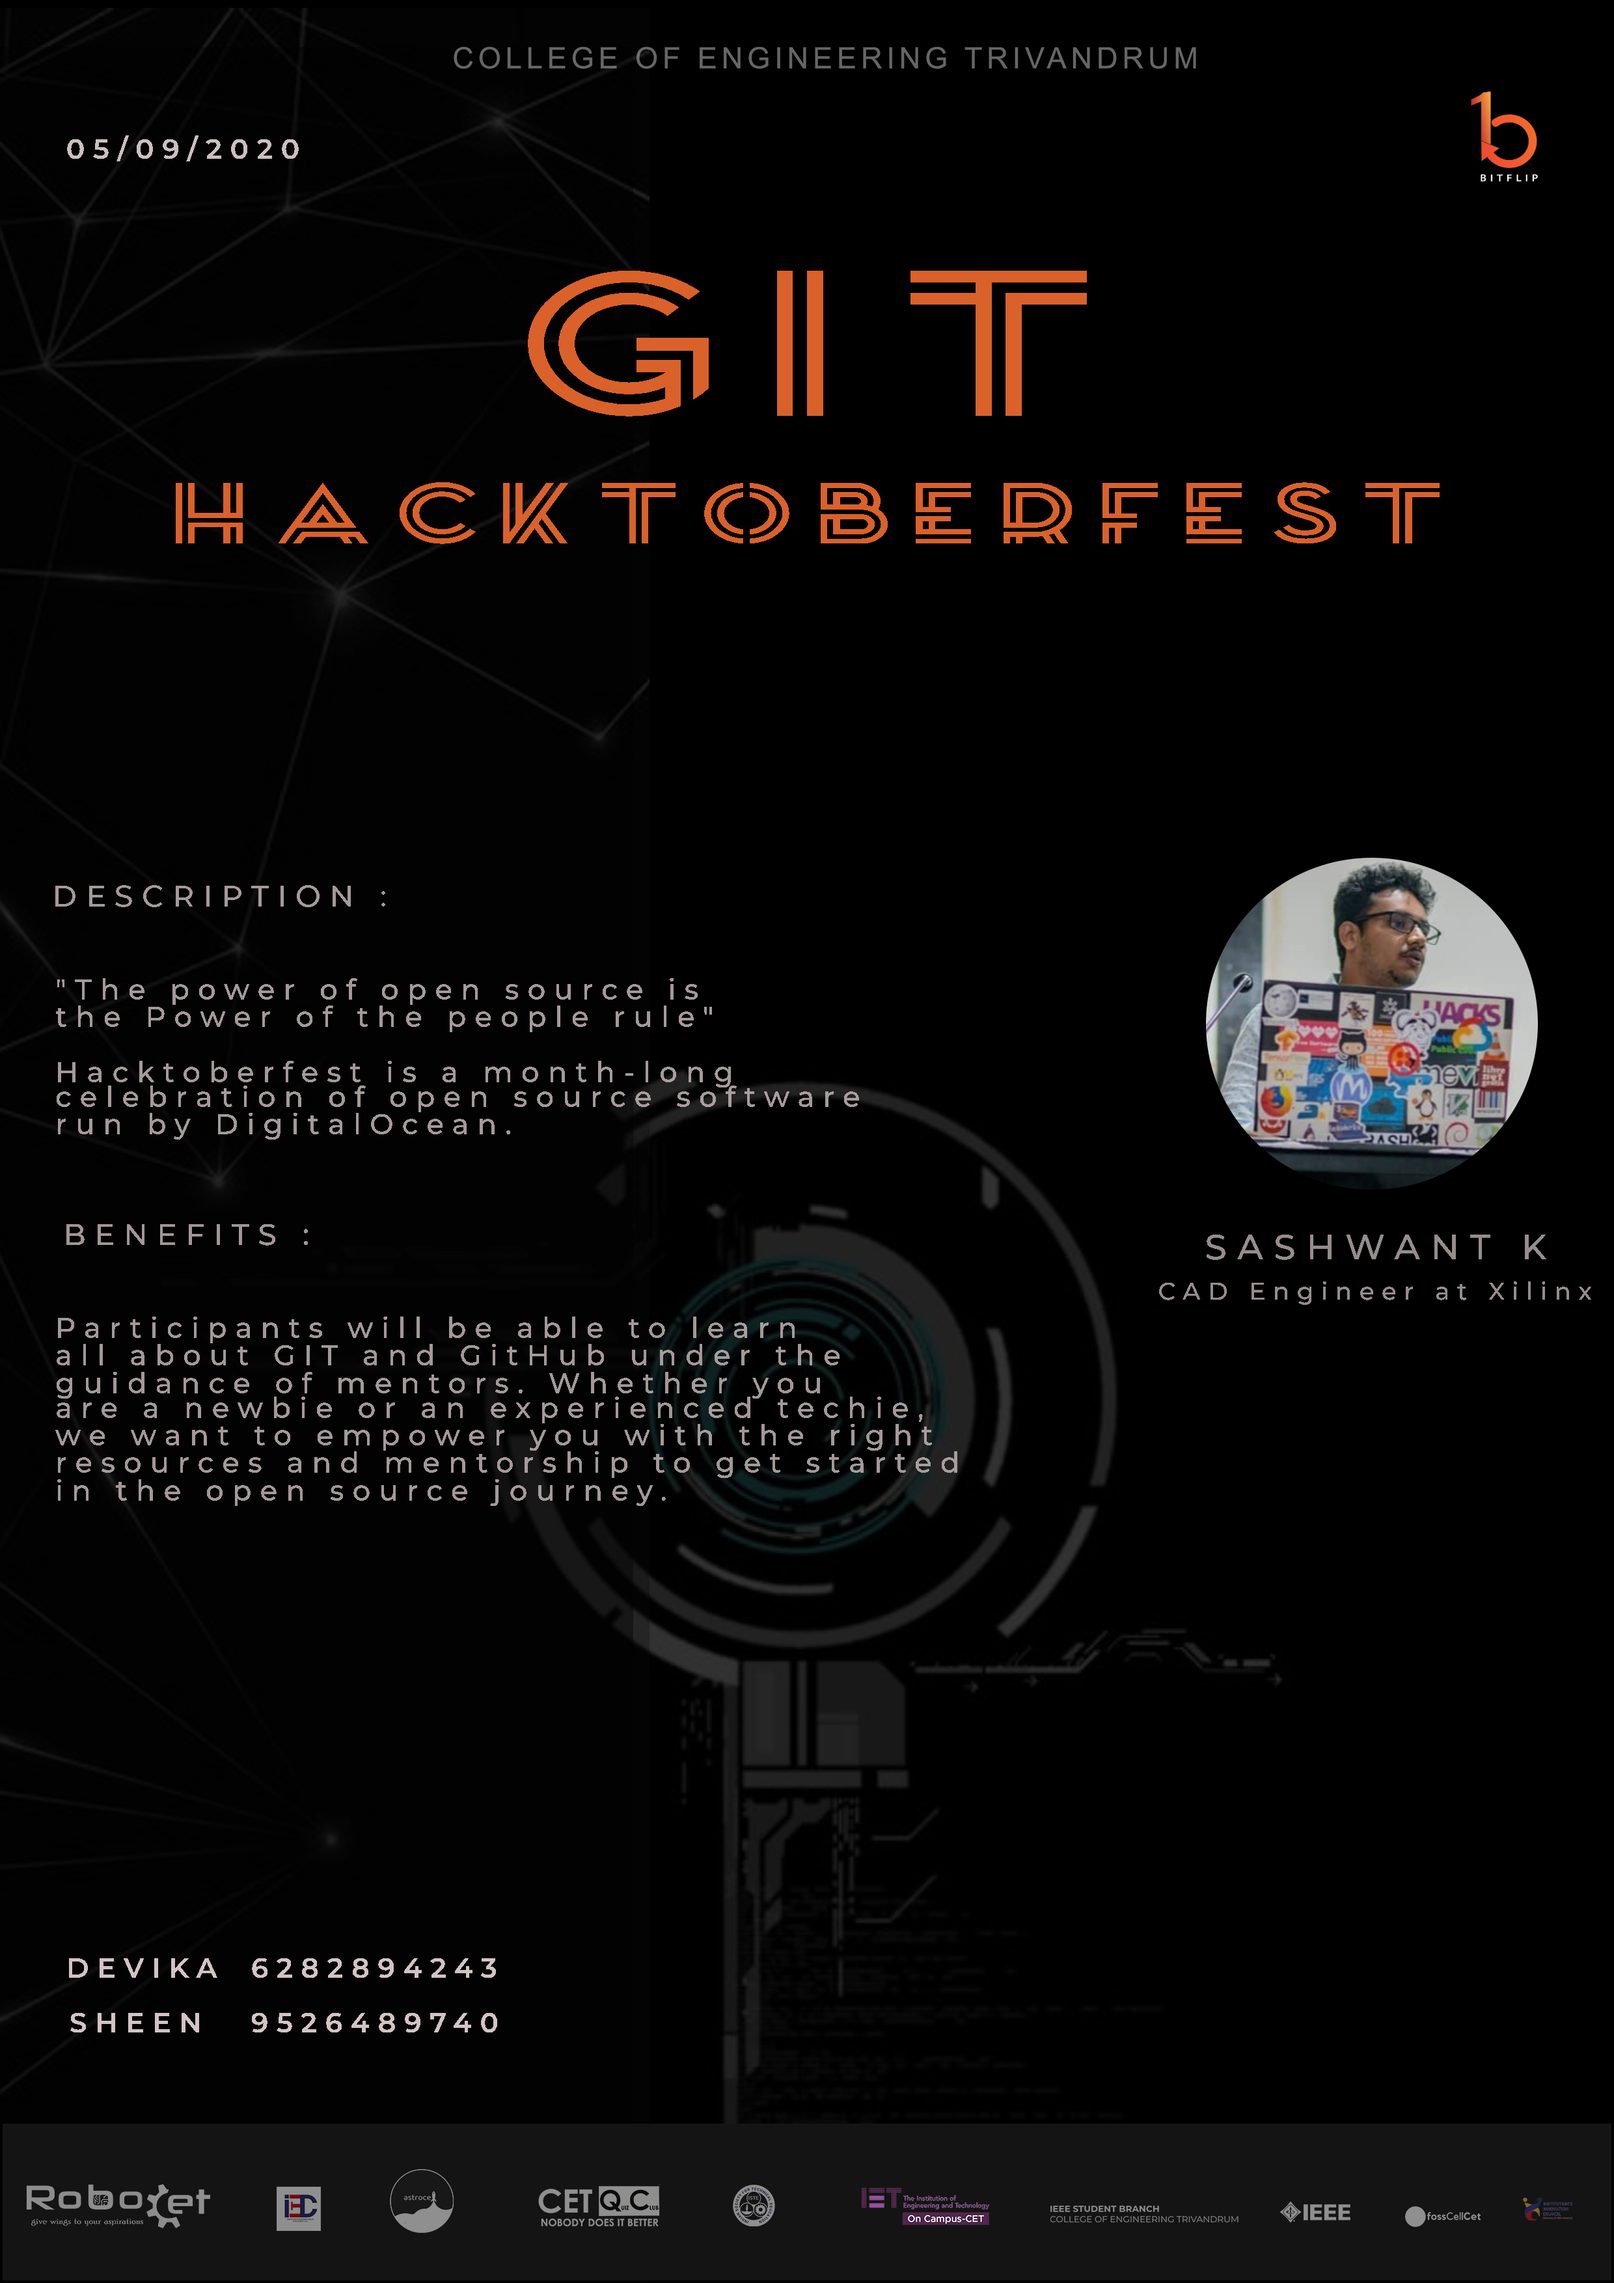
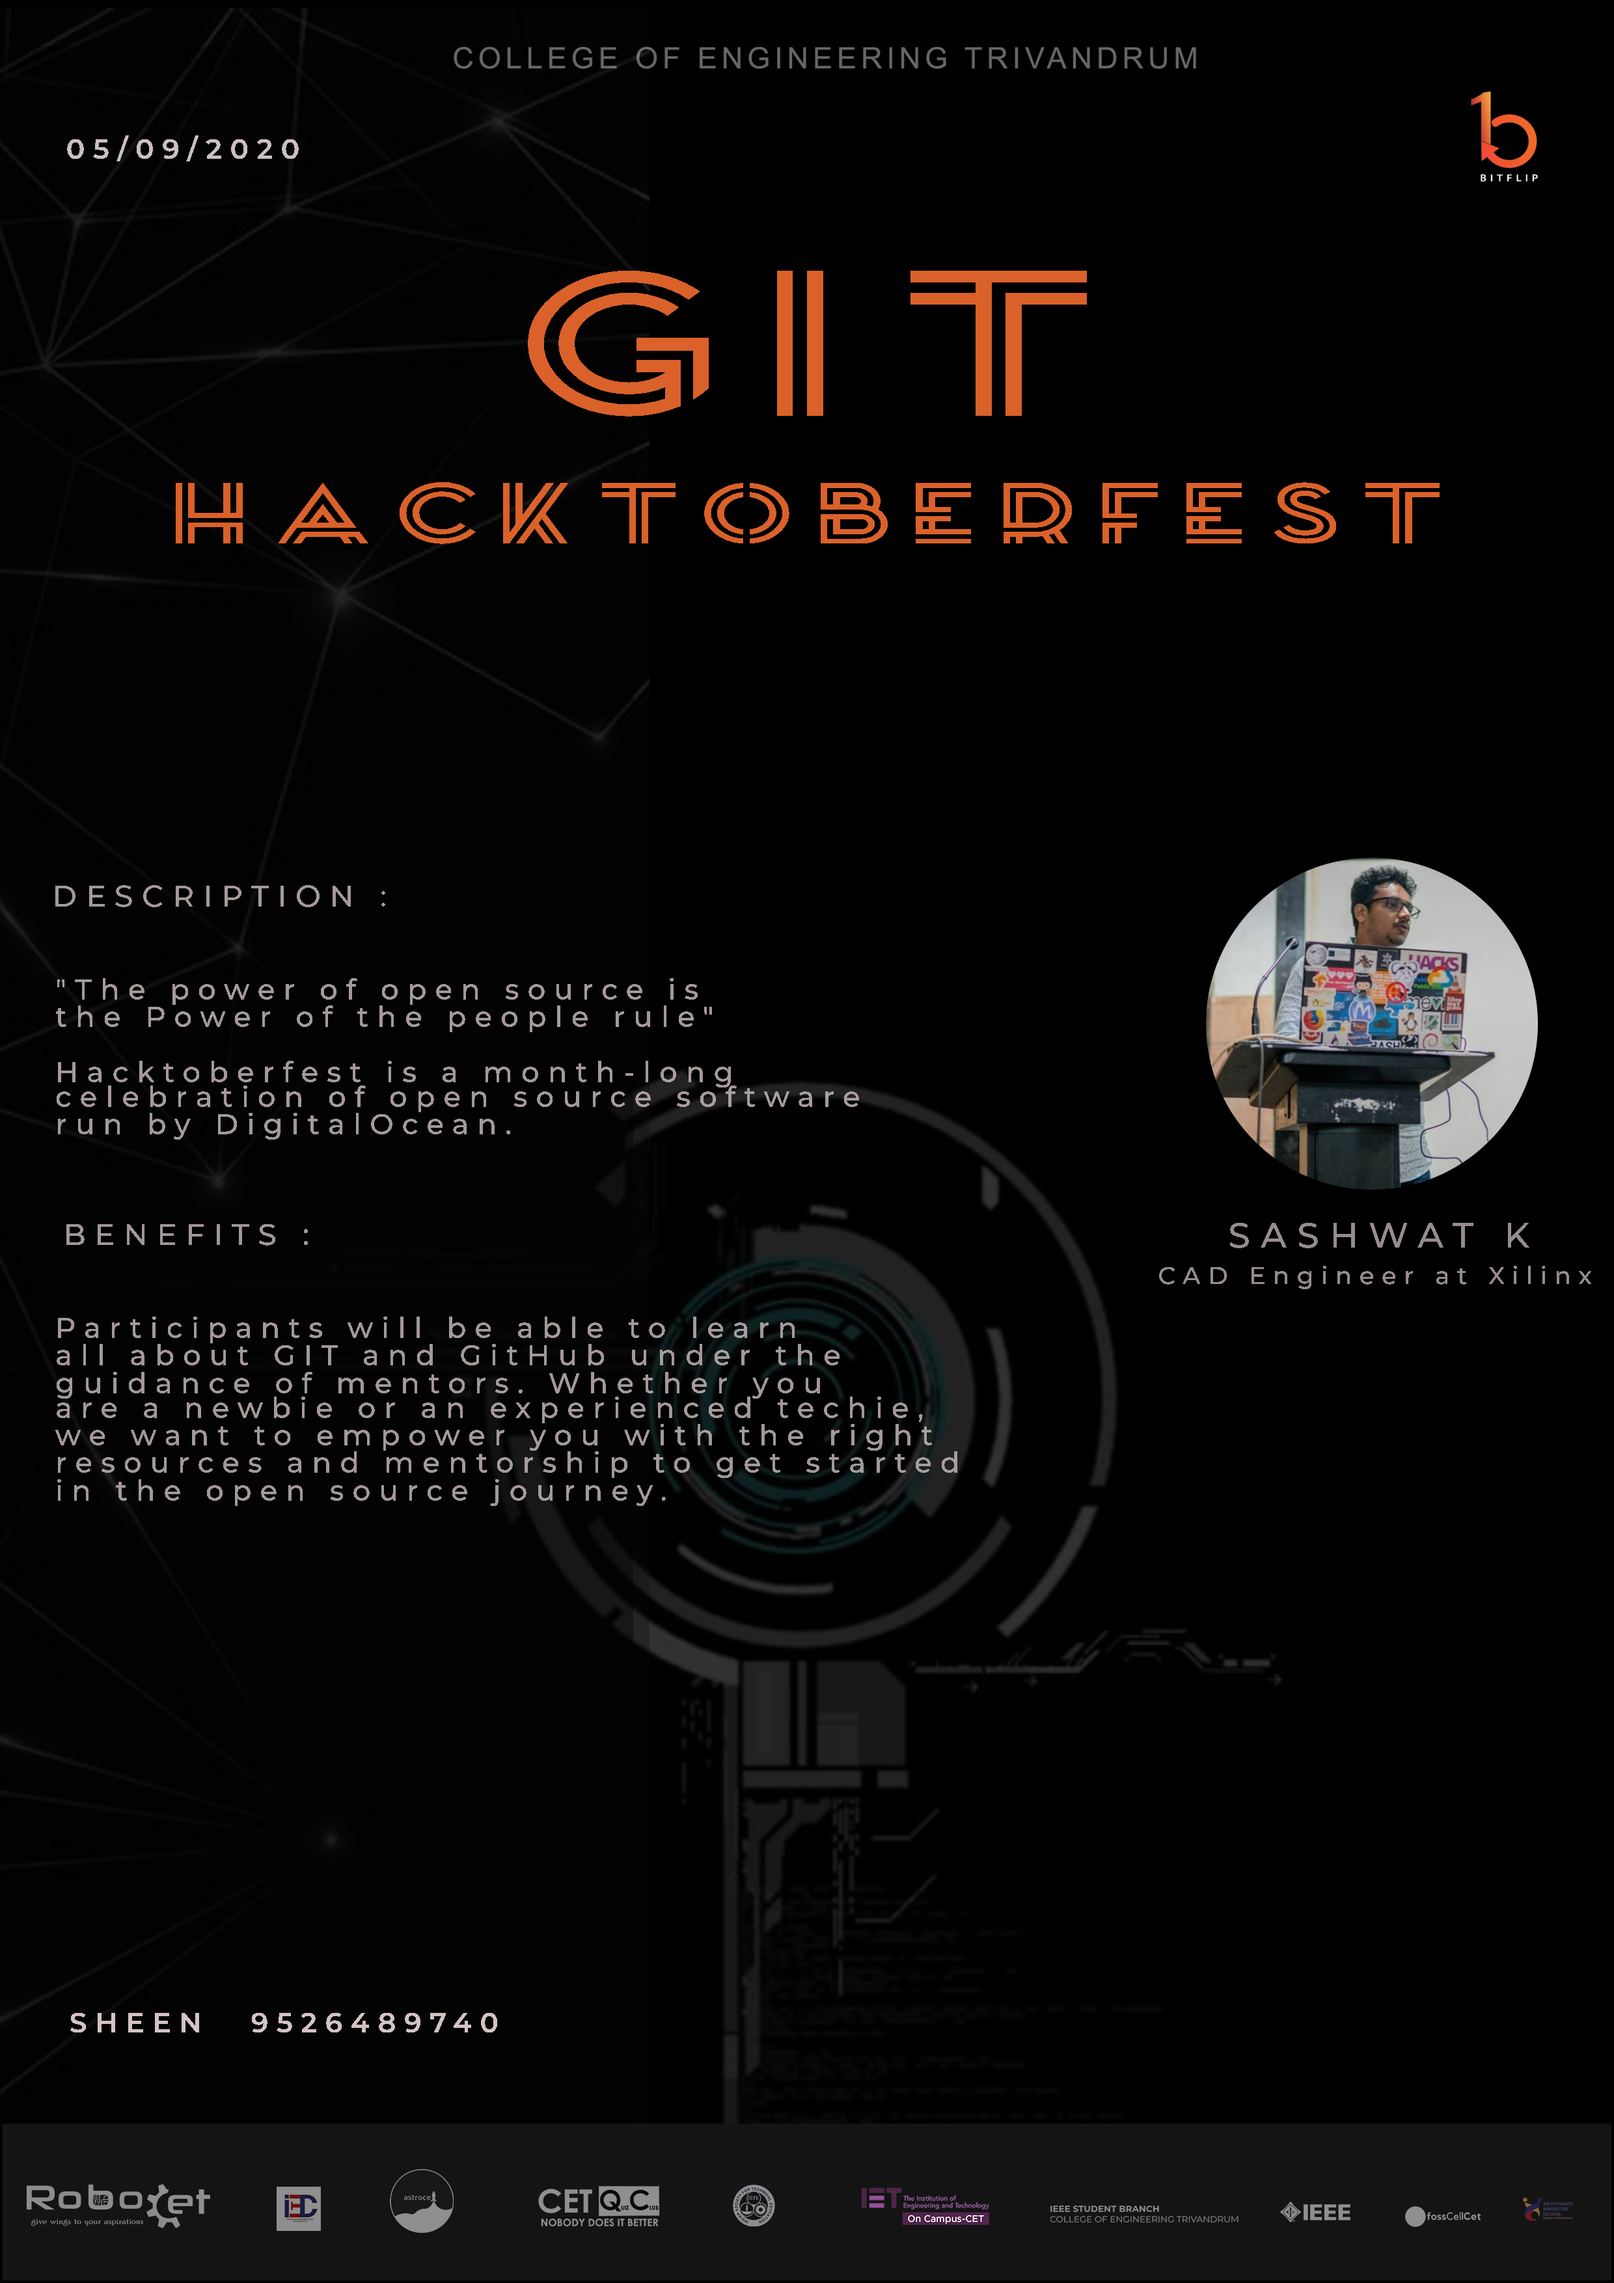
git poster updated:

Changed region(s): [[0.7452, 0.3729, 0.9625, 0.5593], [0.2173, 0.8389, 0.2484, 0.87]]

diff --git a/events/git.md b/events/git.md
@@ -7,5 +7,5 @@ details: The power of open source is the Power of people rule <br> Hacktoberfest
 time: sept 5, 2020 10:00:00
 poster_path: /static/images/git-poster.jpg
 speaker_img_path: /static/images/git-speaker.jpg
-speaker_info: <strong> Sashwant K </strong> <br> CAD Engineer at Xilinx
+speaker_info: <strong> Sashwat K </strong> <br> CAD Engineer at Xilinx
 ---
